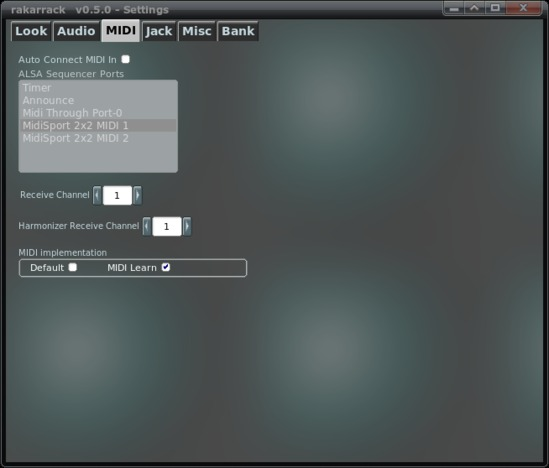
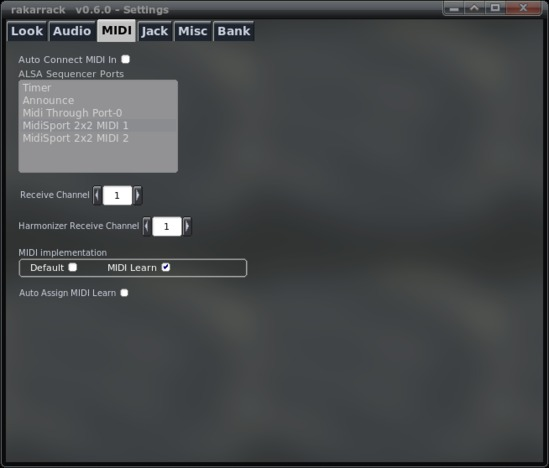
Help updated
modified:   help/general.html
	modified:   help/imagenes/settings2.jpg
	modified:   help/midilearn.html

diff --git a/doc/help/general.html b/doc/help/general.html
@@ -671,6 +671,11 @@ rakarrack interpret the incoming MIDI Control messages, by default we
 use our MIDI implementation table, but you can also use MIDI learn to
 create your own tables.</p>
 
+<p><b>Auto Assing MIDI Learn<p>
+<p> If you enable this option you will not see the MIDI learn window when
+you rigth click over a MIDI controllable effect parameter, the incoming MIDI
+control message will be assigned "automagically".
+
 <p><a href="general.html">General</a></p>
 <p><a href="help.html">Table of Contents</a></p>
 
@@ -806,6 +811,15 @@ manage the program.</p>
       <td> F1 </td>
       <td> Open the Help window </td>
     </tr>
+    <tr>
+      <td> F2 </td>
+      <td> Decrease -1 the Output Volume</td>
+    </tr>
+    <tr>
+      <td> F3 </td>
+      <td> Increase the Output Volume</td>
+    </tr>
+
     <tr>
       <td> F10 </td>
       <td> +10 dB Booster </td>

diff --git a/doc/help/midilearn.html b/doc/help/midilearn.html
@@ -26,6 +26,10 @@ a MIDI implementation table for each preset in the bank. You can see
 two browsers, one at the left with all the available effect parameters,
 and another at the right with all the presets in the Bank.</p>
 
+<p> You can open this window clicking the rigth mouse over a effect
+parameter that can be controllable by MIDI. Also you can auto assign the
+incoming MIDI Control message "automagically" if you enbale on the
+settings.</p>
 
 <p>The radio buttons "All" and "Current" select the parameters listed in the
 browser, "Current" display only the actual preset parameters availables in
